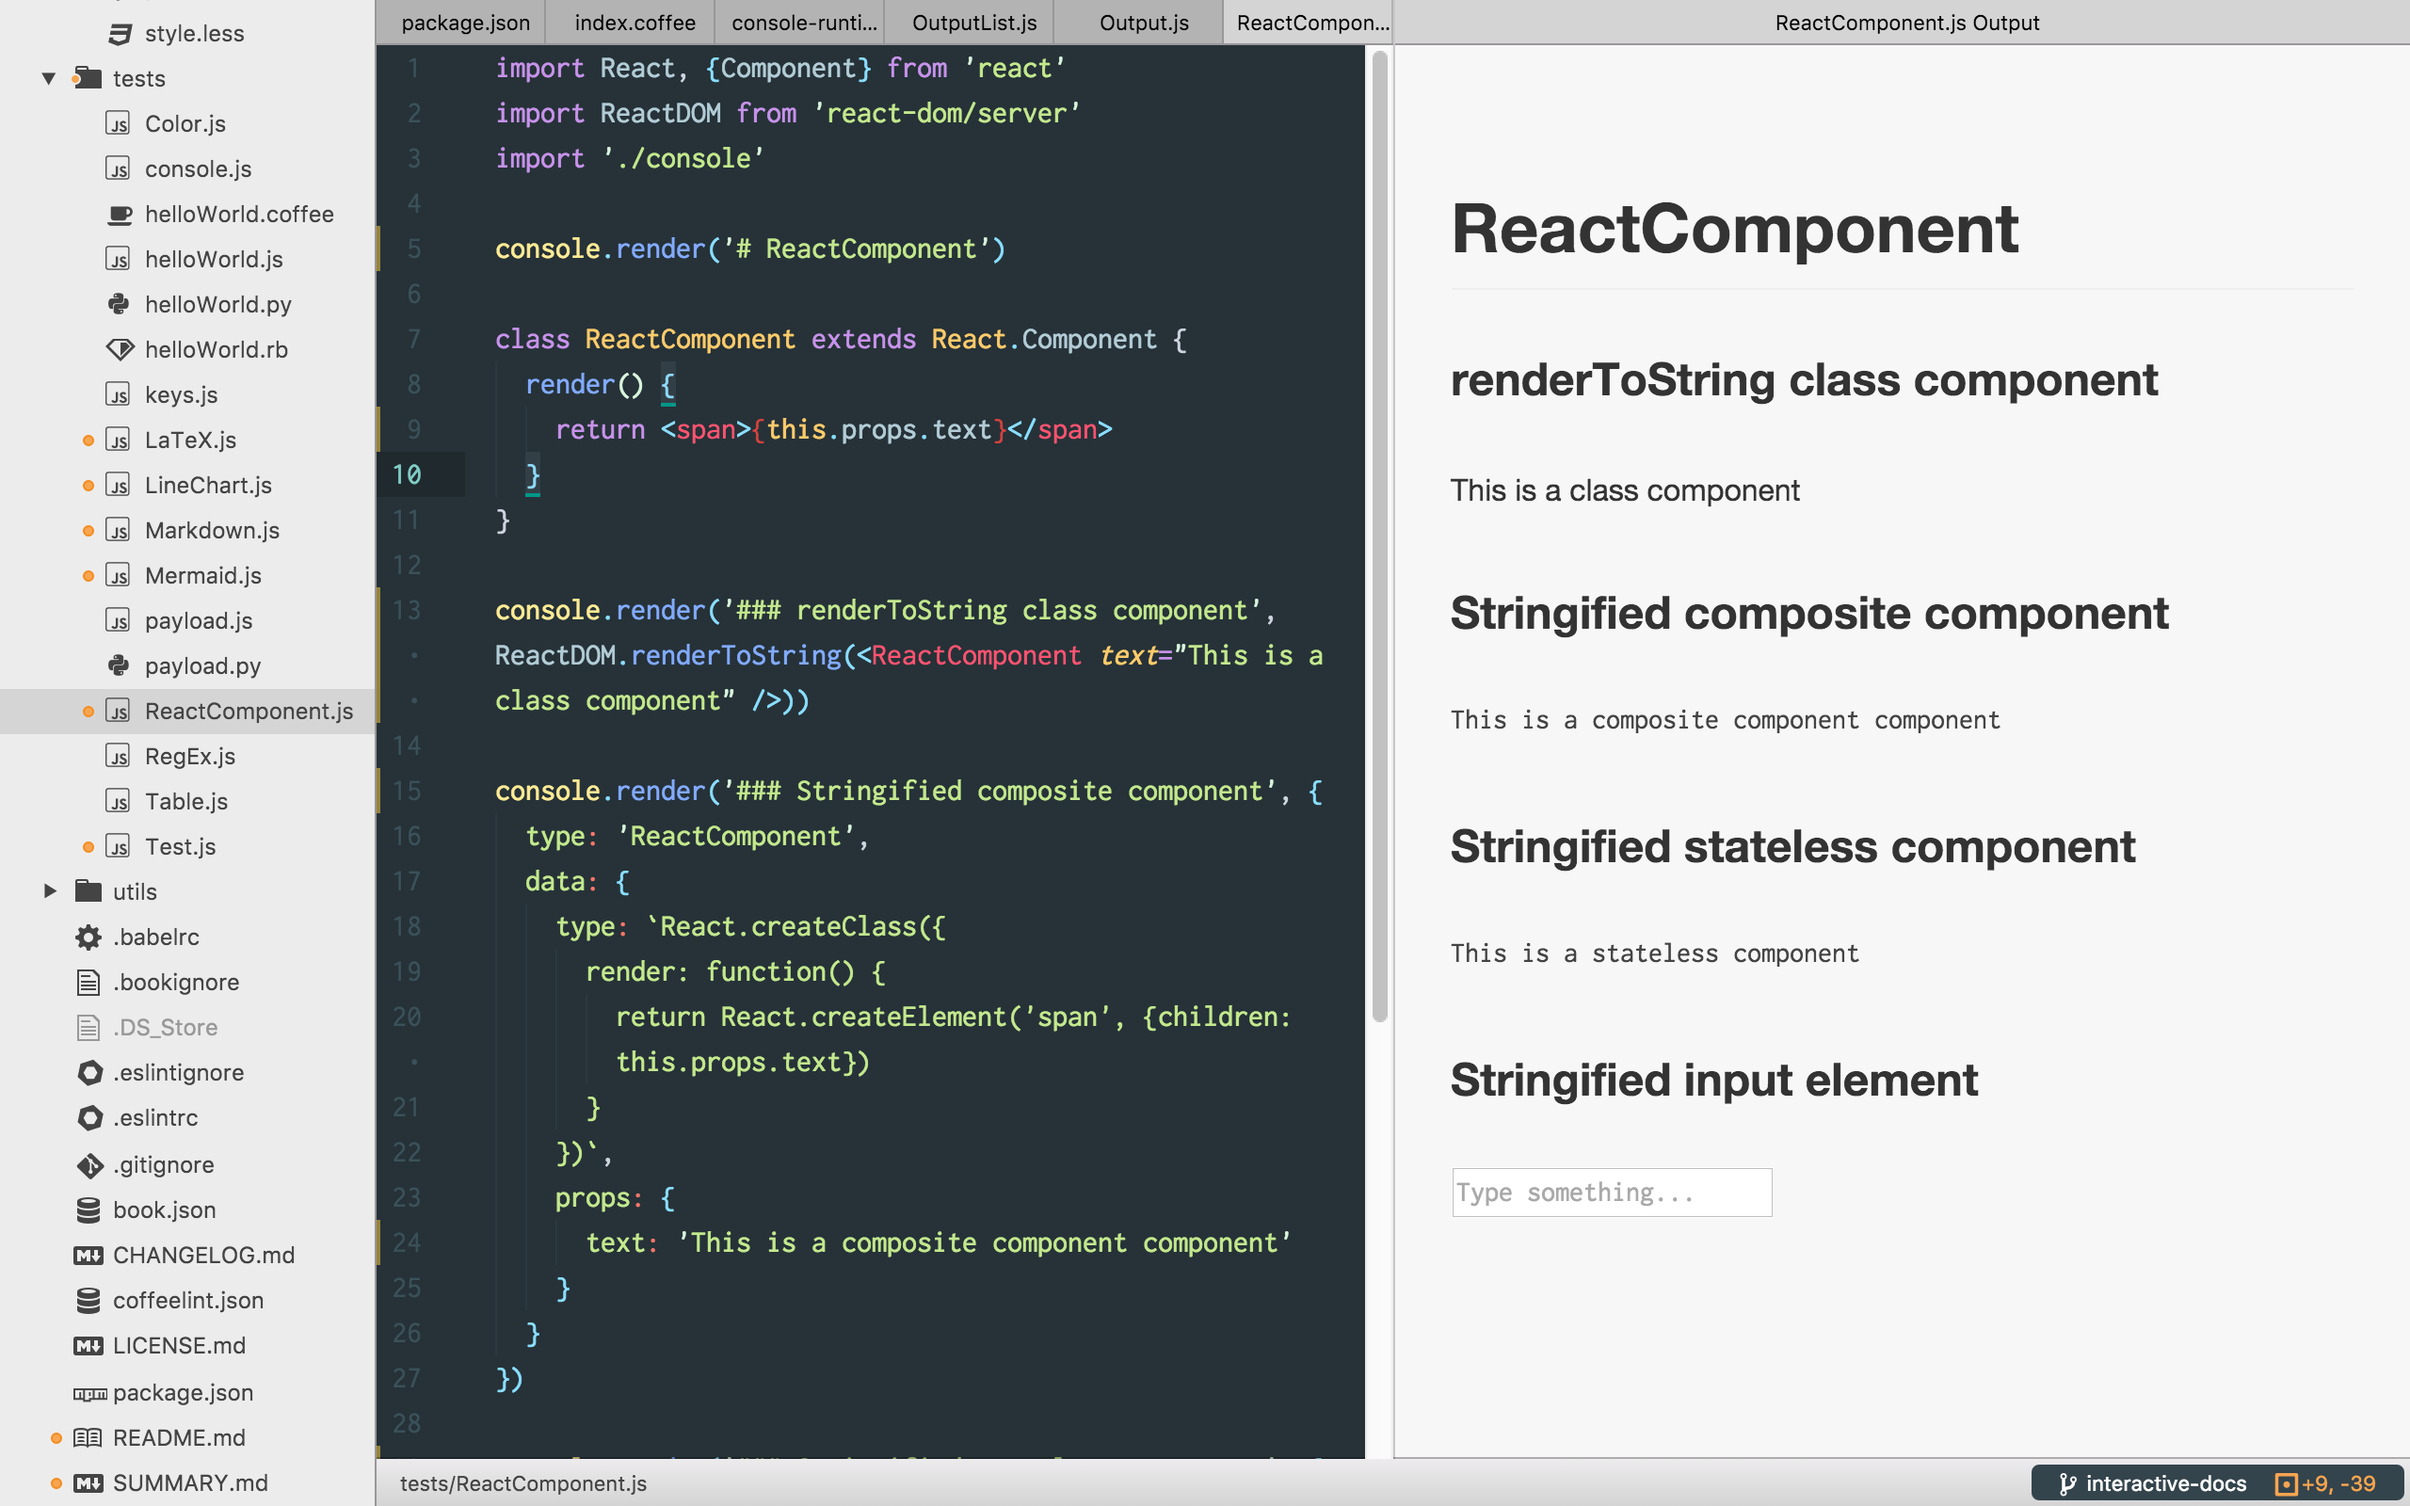
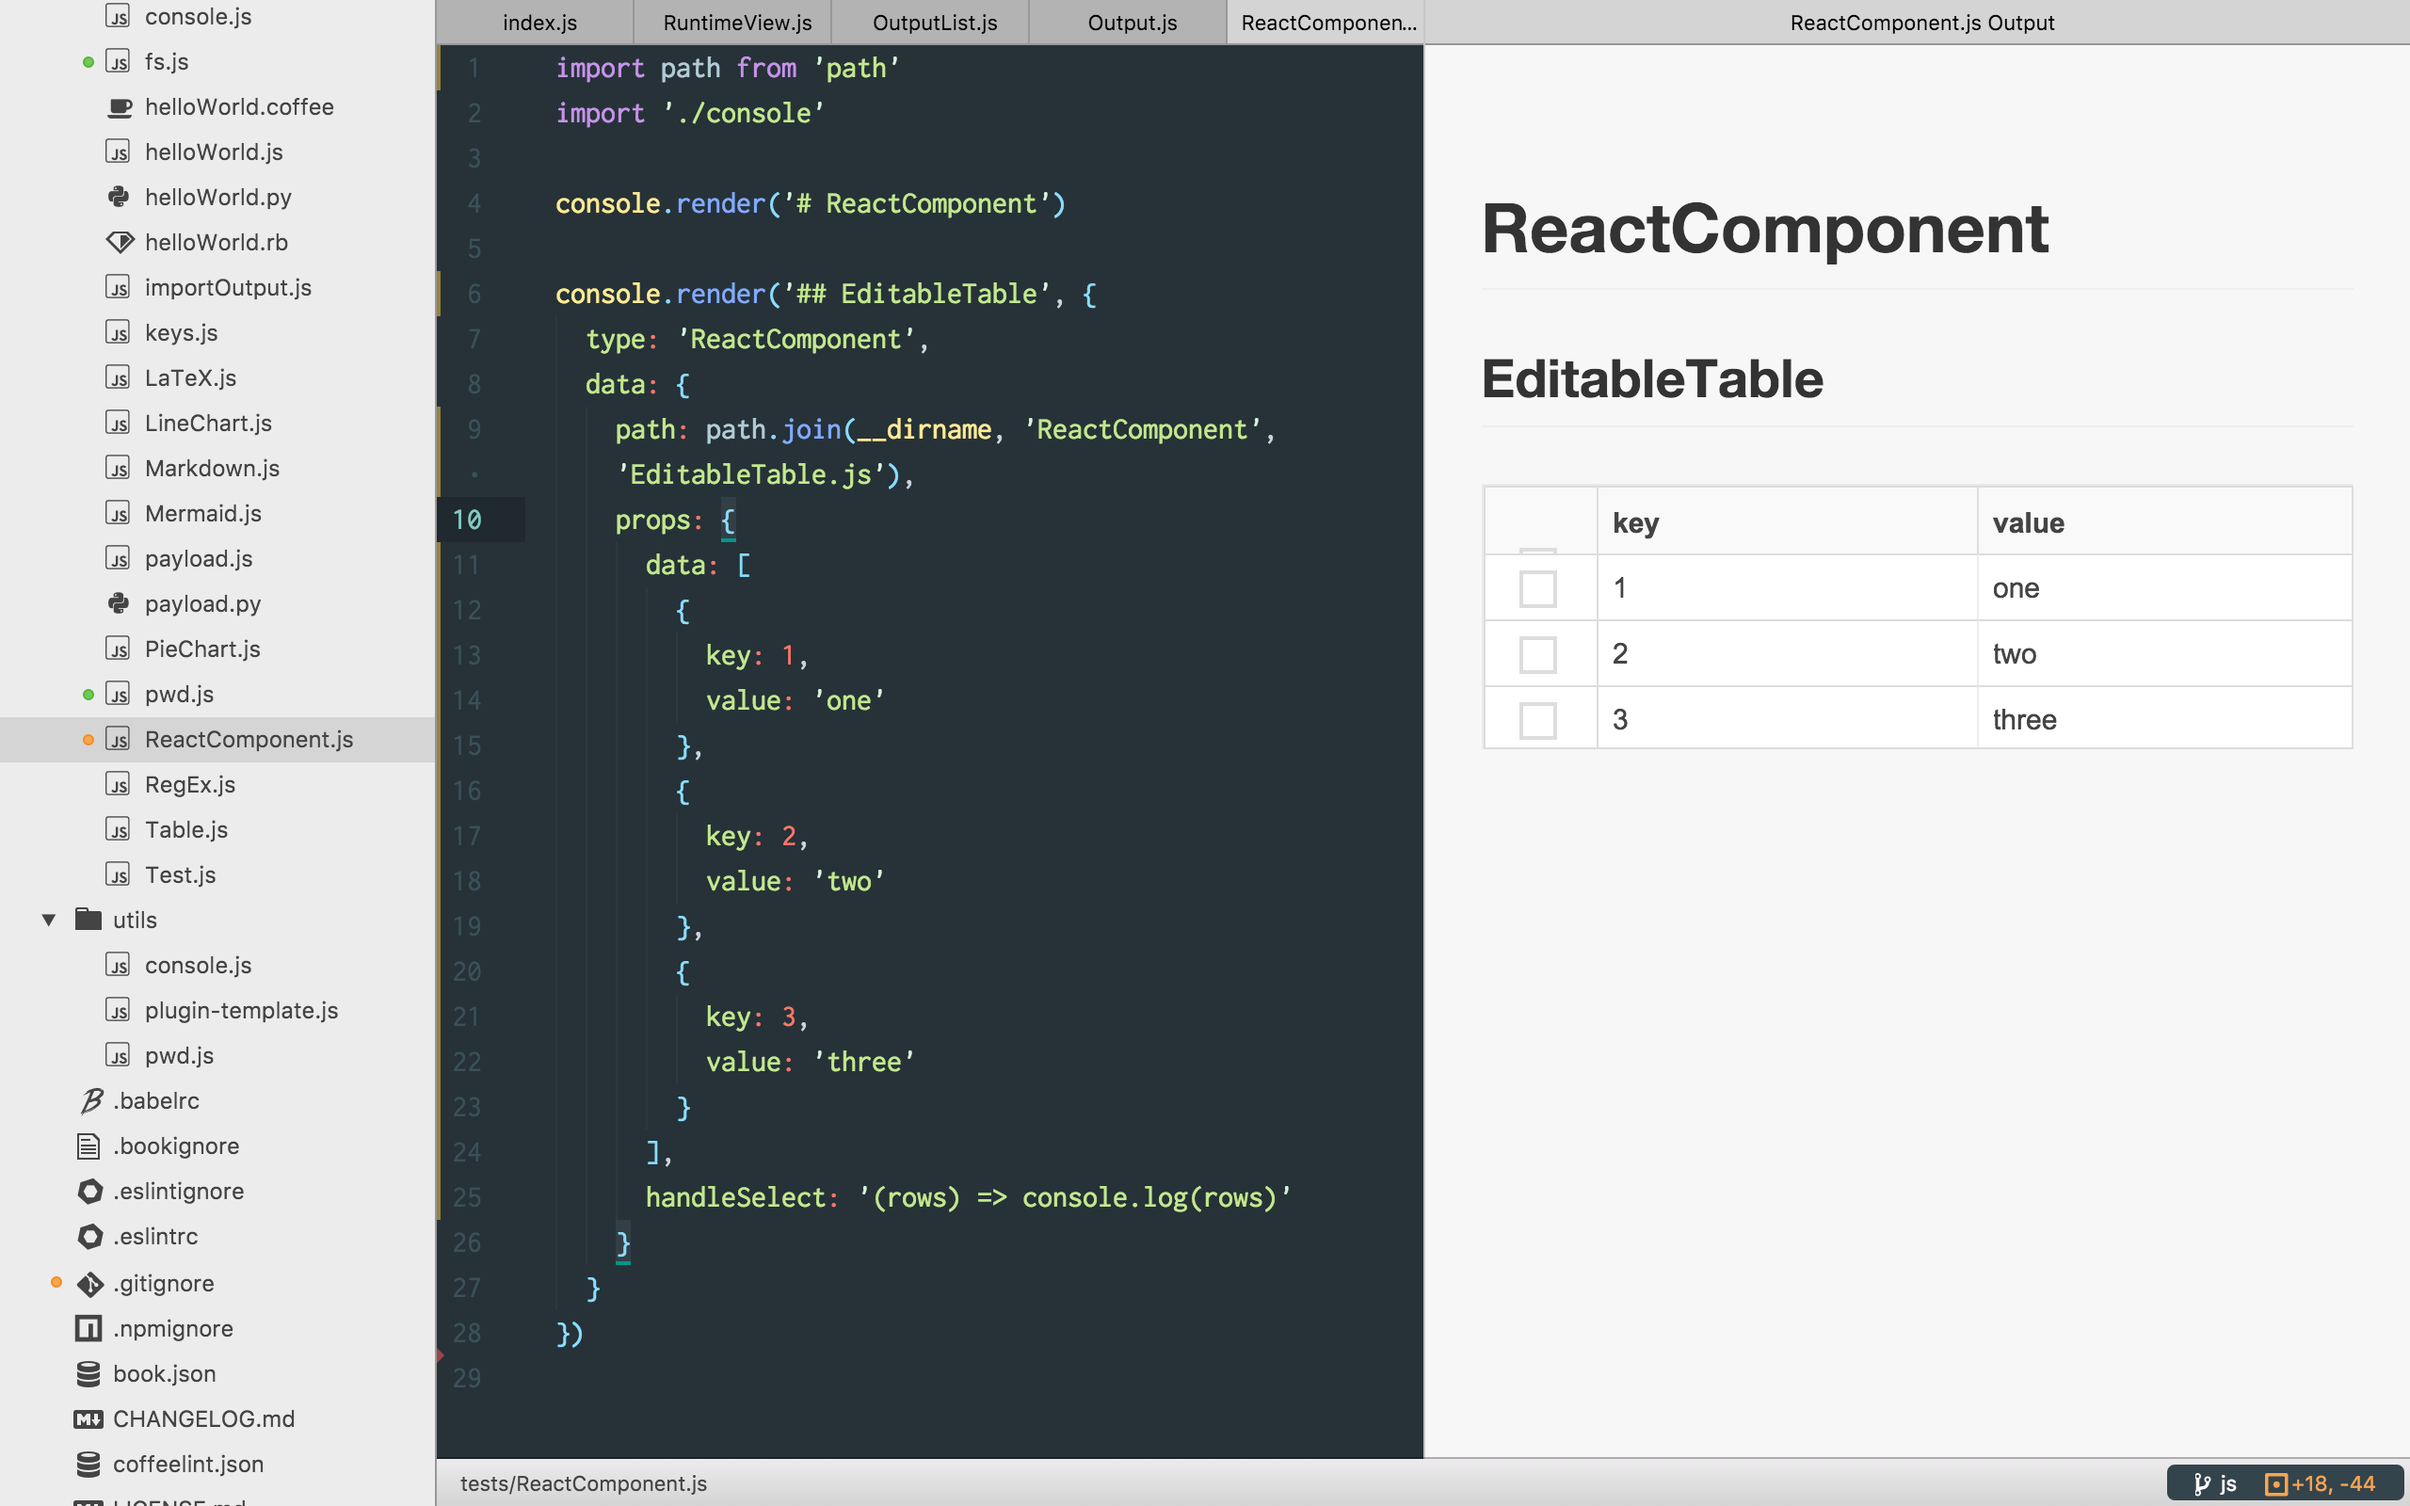
Update ReactComponent plugin
* Pass the path to any React component and props to ReactComponent to
render any React component
* Pass callback functions as strings via props to define component
behavior from source file (callbacks have access to the `global` object)

diff --git a/tests/ReactComponent/EditableTable.js b/tests/ReactComponent/EditableTable.js
@@ -1,0 +1,90 @@
+'use babel'
+
+import React, {Component, PropTypes} from 'react'
+import ReactDataGrid from 'react-data-grid/addons'
+
+class EditableTable extends Component {
+
+  constructor(props) {
+    super(props)
+    this.state = {
+      rows: [],
+      selected: []
+    }
+    this.handleSort = this.handleSort.bind(this)
+    this.handleSelect = this.handleSelect.bind(this)
+  }
+
+  componentDidMount() {
+    this.setState({rows: this.props.data})
+  }
+
+  componentWillReceiveProps(nextProps) {
+    this.setState({rows: nextProps.data})
+  }
+
+  render() {
+    let columns = this.state.rows.reduce((columns, row) => {
+      if (typeof row === 'object') {
+        return Object.keys(row).reduce((columns, key) => ([...columns.filter(column => column.key !== key), {
+          key,
+          name: key,
+          resizable: true,
+          sortable: true,
+          editable: true
+        }]), columns)
+      } else {
+        return {
+          key: 'default',
+          name: ''
+        }
+      }
+    }, [])
+    let rows = this.state.rows.map(row => (
+      columns.reduce((row, column) => {
+        let value = row[column.key]
+        if (typeof row[column.key] === 'object') value = `${row[column.key]}`
+        if (!row[column.key]) value = ''
+        return {
+          ...row,
+          [column.key]: value
+        }
+      }, row)
+    ))
+    return <ReactDataGrid
+      columns={columns}
+      rowGetter={index => rows[index]}
+      rowKey="key"
+      rowsCount={this.state.rows.length}
+      enableRowSelect="multi"
+      minHeight={(this.state.rows.length + 1) * 35}
+      onGridSort={this.props.handleSort || this.handleSort}
+      onRowSelect={this.props.handleSelect || this.handleSelect}
+    />
+  }
+
+  handleSort(column, direction) {
+    if (direction !== 'NONE') {
+      let rows = this.state.rows.sort((a, b) => {
+        if (direction === 'ASC') {
+          return (a[column] > b[column]) ? 1 : -1
+        } else if (direction === 'DESC') {
+          return (a[column] < b[column]) ? 1 : -1
+        }
+      })
+      this.setState({rows})
+    }
+  }
+
+  handleSelect(rows) {
+    // console.log(rows)
+    this.setState({selected: rows})
+  }
+
+}
+
+EditableTable.propTypes = {
+  data: PropTypes.arrayOf(PropTypes.object).isRequired
+}
+
+export default EditableTable

diff --git a/plugins/ReactComponent.js b/plugins/ReactComponent.js
@@ -2,28 +2,77 @@
 
 import React, {Component, PropTypes} from 'react'
 import vm from 'vm'
-import path from 'path'
+import fs from 'fs'
 const babel = require('babel-core')
 
 class ReactComponent extends Component {
 
-  render() {
-    let {type, props = {}} = this.props.data
-    if (type) {
-      if (React.DOM[type]) return React.createElement(type, props)
-      let transpiled = babel.transform(type).code
-      let evaluated = vm.runInNewContext(transpiled, {React})
-      // return React.createElement(vm.runInNewContext(type, {React}), props)
-      return React.createElement(evaluated, props)
+  constructor(props) {
+    super(props)
+    this.component = null
+    this.watch = null
+    this.requireComponent = this.requireComponent.bind(this)
+    this.watchComponent = this.watchComponent.bind(this)
+  }
+
+  componentWillMount() {
+    let {path} = this.props.data
+    this.requireComponent(path)
+    this.watch = this.watchComponent(path)
+  }
+
+  componentWillUnmount() {
+    this.watch.close()
+  }
+
+  componentWillReceiveProps(nextProps) {
+    let {path} = nextProps.data
+    if (path !== this.props.data.path) {
+      this.watch.close()
+      this.requireComponent(path)
+      this.watch = this.watchComponent(path)
     }
+  }
+
+  render() {
+    let {props} = this.props.data
+    if (props) {
+      props = Object.keys(props).reduce((props, key) => {
+        let prop = props[key]
+        try {
+          let {code} = babel.transform(prop)
+          let callback = vm.runInThisContext(code)
+          return {...props, [key]: callback}
+        } catch (error) {
+          return props
+        }
+      }, props)
+    }
+    return React.createElement(this.component, props)
+  }
+
+  requireComponent(path) {
+    try {
+      this.component = require(path)
+    } catch (error) {
+      throw error
+    }
+  }
+
+  watchComponent(path) {
+    return fs.watch(path, (event, file) => {
+      console.log('%cwatchComponents', 'font-weight: bold', file)
+      delete require.cache[require.resolve(path)]
+      this.requireComponent(path)
+    })
   }
 
 }
 
 ReactComponent.propTypes = {
   data: PropTypes.shape({
-    type: PropTypes.string.isRequired,
-    props: PropTypes.object.isRequired
+    path: PropTypes.string.isRequired,
+    props: PropTypes.object
   }).isRequired
 }
 

diff --git a/tests/ReactComponent.js b/tests/ReactComponent.js
@@ -1,54 +1,28 @@
-import React, {Component} from 'react'
-import ReactDOM from 'react-dom/server'
+import path from 'path'
 import './console'
 
 console.render('# ReactComponent')
 
-class ReactComponent extends React.Component {
-  render() {
-    return <span>{this.props.text}</span>
-  }
-}
-
-// const ReactComponent = React.createClass({
-//   render() {
-//     return <span>{this.props.name}</span>
-//   }
-// })
-//
-// const ReactComponent = (props) => ({
-//   type: 'span',
-//   props: {
-//     children: props.name
-//   },
-//   $$typeof: Symbol.for('react.element')
-// })
-
-console.render('### renderToString class component', ReactDOM.renderToString(<ReactComponent text="This is a class component" />))
-
-console.render('### Stringified composite component', {
+console.render('## EditableTable', {
   type: 'ReactComponent',
   data: {
-    type: `React.createClass({
-      render: function() {
-        return React.createElement('span', {children: this.props.text})
-      }
-    })`,
+    path: path.join(__dirname, 'ReactComponent', 'EditableTable.js'),
     props: {
-      text: 'This is a composite component'
+      data: [
+        {
+          key: 1,
+          value: 'one'
+        },
+        {
+          key: 2,
+          value: 'two'
+        },
+        {
+          key: 3,
+          value: 'three'
+        }
+      ],
+      handleSelect: '(rows) => console.log(rows)'
     }
   }
 })
-
-console.render('### Stringified stateless component', {
-  type: 'ReactComponent',
-  data: {
-    type: `(props) => <span>{props.text}</span>`,
-    props: {
-      text: 'This is a stateless component'
-    },
-    $$typeof: Symbol.for('react.element')
-  }
-})
-
-console.render('### Stringified input element', <input placeholder="Type something..."></input>)

diff --git a/docs/plugins/core.md b/docs/plugins/core.md
@@ -214,22 +214,26 @@ PieChart.propTypes = {
 
 ### Usage
 ```js
-class ReactComponent extends React.Component {
-  render() {
-    return <span>{this.props.text}</span>
-  }
-}
-console.render('renderToString class component', ReactDOM.renderToString(<ReactComponent text="This is a class component" />))
-console.render('Stringified composite component', {
+console.render('## EditableTable', {
   type: 'ReactComponent',
   data: {
-    type: `React.createClass({
-      render: function() {
-        return React.createElement('span', {children: this.props.text})
-      }
-    })`,
+    path: path.join(__dirname, 'ReactComponent', 'EditableTable.js'),
     props: {
-      text: 'This is a composite component'
+      data: [
+        {
+          key: 1,
+          value: 'one'
+        },
+        {
+          key: 2,
+          value: 'two'
+        },
+        {
+          key: 3,
+          value: 'three'
+        }
+      ],
+      handleSelect: '(rows) => console.log(rows)'
     }
   }
 })
@@ -239,8 +243,8 @@ console.render('Stringified composite component', {
 ```js
 ReactComponent.propTypes = {
   data: PropTypes.shape({
-    type: PropTypes.string.isRequired,
-    props: PropTypes.object.isRequired
+    path: PropTypes.string.isRequired,
+    props: PropTypes.object
   }).isRequired
 }
 ```
